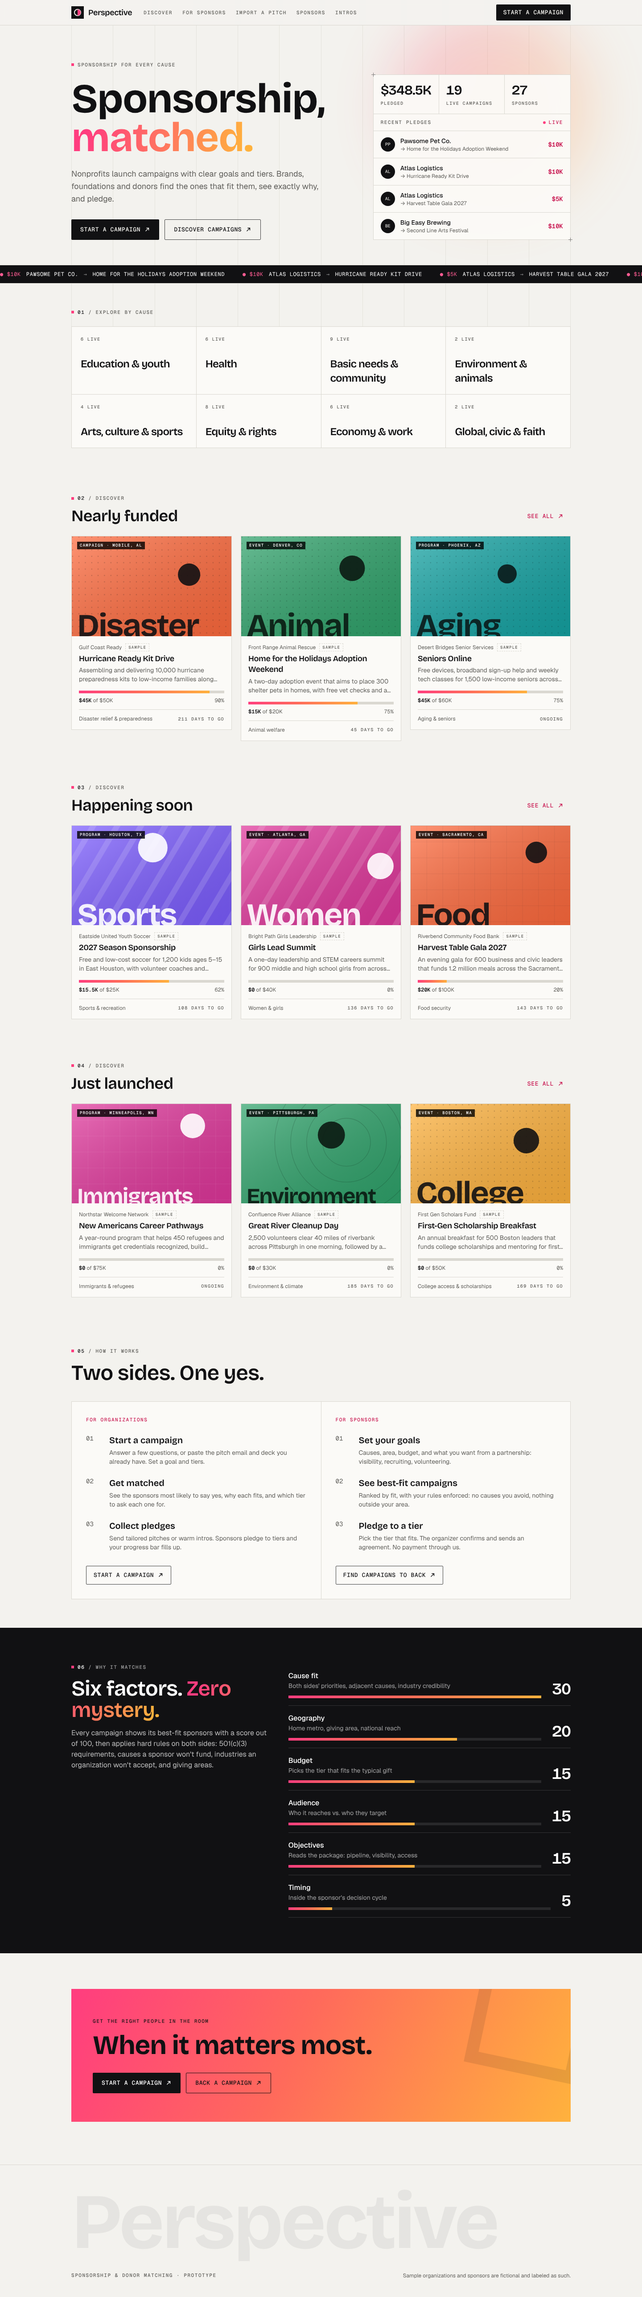
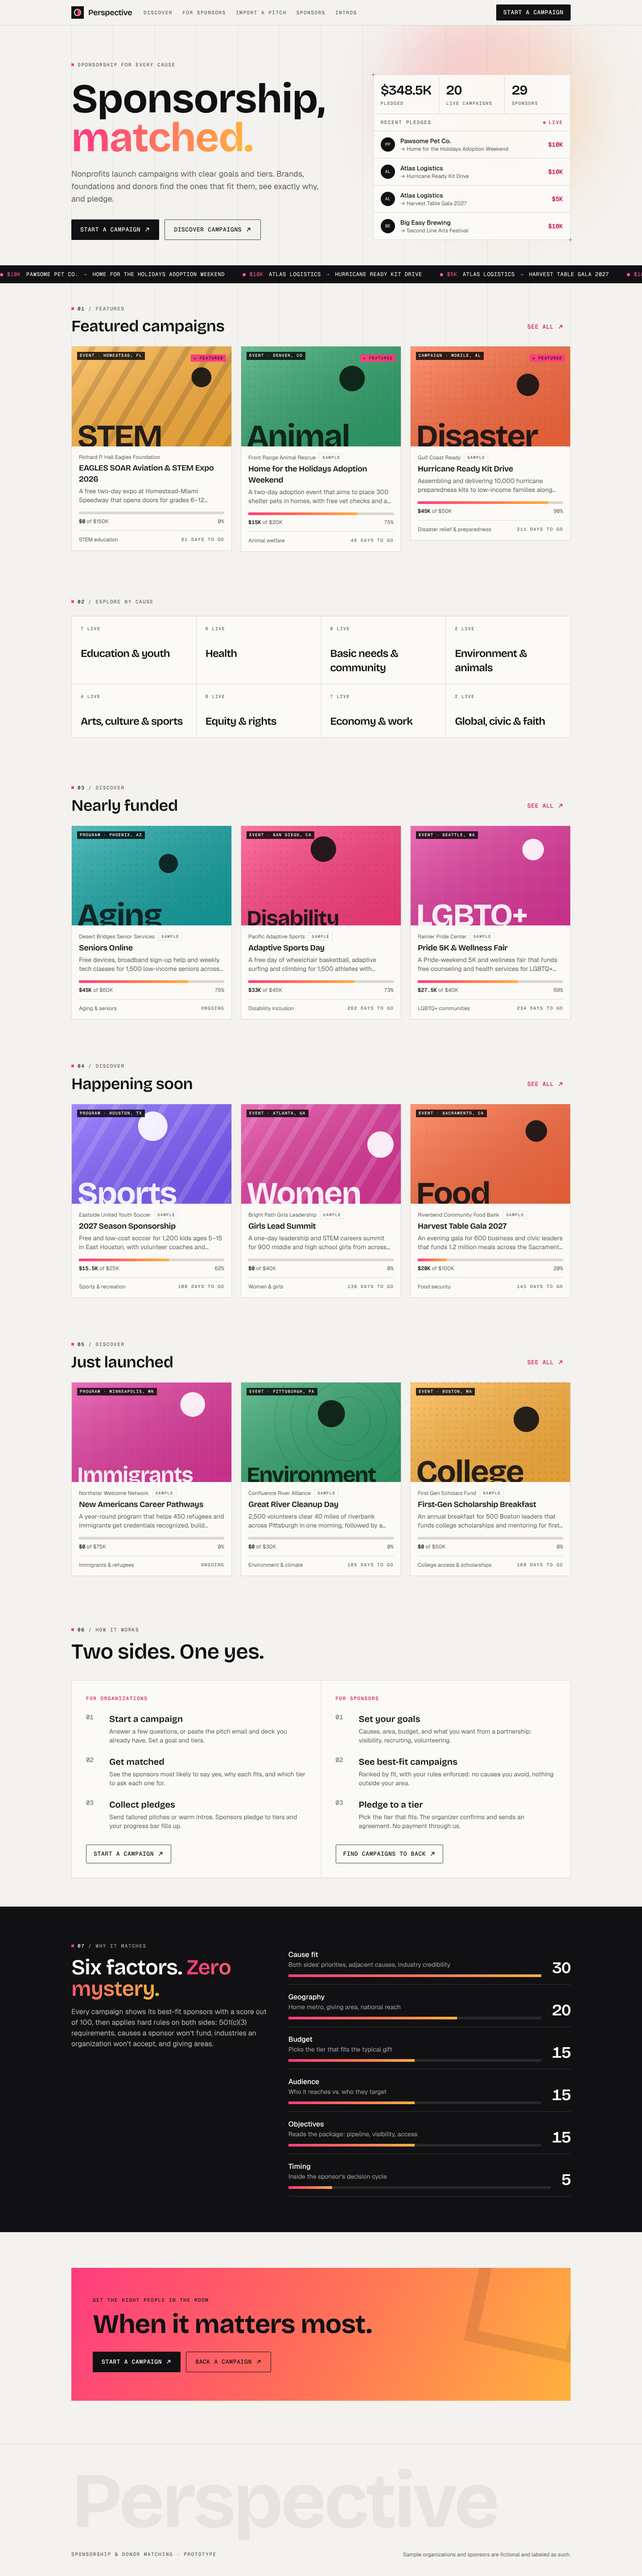
Feature EAGLES SOAR as a real campaign
Add the Richard P. Hall Eagles Foundation's EAGLES SOAR Aviation & STEM
Expo 2026 from its outreach email and sponsorship package: real details,
five tiers with benefits, partners, story, and no Sample label. No
pledges are recorded since none were provided.

- Opportunity.featured: a "Featured campaigns" row leads the home page,
  cards and campaign pages show a Featured badge, and Discover's default
  sort pins featured campaigns in their curated order
- Two fictional Florida sample sponsors (aerospace employer, Miami
  credit union) so the campaign has realistic local matches
- Test pins EAGLES SOAR as featured, non-sample, with the local
  aerospace employer as its top match

Claude-Session: https://claude.ai/code/session_01YM4cKZGqWXUZcWp3snBqqv

diff --git a/data/seed.ts b/data/seed.ts
@@ -1,16 +1,93 @@
 import type { Opportunity, Pledge, SponsorProfile } from "../lib/types.ts";
 
-// Fictional demo network spanning causes, regions, budgets and sponsor
-// industries. Every record is labeled "Sample" in the UI.
+// Demo network spanning causes, regions, budgets and sponsor industries.
+// EAGLES SOAR is a real campaign; every other record is fictional and
+// labeled "Sample" in the UI.
 const created = "2026-10-21T00:00:00.000Z";
 const base = { source: "seed" as const, sample: true, createdAt: created };
 
-type OppSeed = Omit<Opportunity, "source" | "sample" | "createdAt" | "excludedIndustries" | "partners" | "contact"> &
+type OppSeed = Omit<Opportunity, "source" | "createdAt" | "excludedIndustries" | "partners" | "contact"> &
   Partial<Pick<Opportunity, "excludedIndustries" | "partners" | "contact">>;
 
 const opp = (o: OppSeed): Opportunity => ({ excludedIndustries: [], partners: [], contact: {}, ...base, ...o });
 
 const launched: Opportunity[] = [
+  // A real campaign, from the founder's outreach email and sponsorship package.
+  opp({
+    id: "eagles-soar-2026",
+    orgName: "Richard P. Hall Eagles Foundation",
+    orgType: "501c3",
+    title: "EAGLES SOAR Aviation & STEM Expo 2026",
+    kind: "event",
+    summary:
+      "A free two-day expo at Homestead-Miami Speedway that opens doors for grades 6–12 students into aviation and STEM careers, honoring the Tuskegee Airmen legacy of Capt. Richard P. Hall.",
+    story: [
+      "The Richard P. Hall Eagles Foundation is a Florida 501(c)(3) founded by LaTéssa Dotson Hall, a retired USAF Major. It honors the legacy of Capt. Richard P. Hall, which traces back to the Tuskegee Airmen, and its mission is to open doors for kids into aviation and STEM.",
+      "EAGLES SOAR runs December 11–12, 2026, 9 AM–2 PM, at Homestead-Miami Speedway. It's powered by the City of Homestead, aligned with Miami-Dade County Public Schools, and free to attend. Friday is Student Exploration Day for grades 6–12 from public, charter, private and homeschool programs. Saturday is Community Career Exploration Day for students, families and young adults.",
+      "Students get hands-on time with careers in aviation and aerospace, engineering and robotics, defense and space, healthcare, and mobility. This year adds an AI track with a student hackathon.",
+      "Beyond sponsorship, the foundation welcomes volunteers and mentors (including for the AI hackathon) and introductions to companies and people who might want to partner.",
+    ].join("\n\n"),
+    causes: ["stem-education", "workforce-development", "technology-ai", "youth-development"],
+    audiences: ["teen-students", "families", "young-adults", "educators"],
+    location: { city: "Homestead", state: "FL", metro: "Miami" },
+    startDate: "2026-12-11",
+    endDate: "2026-12-12",
+    expectedReach: 5000,
+    reachNote: "5,000+ attendees including 3,000+ students and 2,000+ engaged families",
+    tiers: [
+      {
+        name: "Presenting — Visionary Level",
+        amount: 40000,
+        availability: "exclusive",
+        benefits: [
+          "Premium activation space (large footprint, prime location)",
+          "Main stage remarks",
+          "Premier branding placement",
+          "Logo on Official Track Car",
+          "“Ignite” session hosting",
+          "M-DCPS leadership & Industry Advisory Council access",
+          "Student Talent Database access",
+          "VIP Lounge + 20 VIP passes",
+        ],
+      },
+      {
+        name: "Platinum — Innovation Level",
+        amount: 25000,
+        availability: "limited",
+        benefits: [
+          "Prominent branding placement",
+          "Large activation space (premium area)",
+          "Main stage recognition",
+          "Media recognition",
+          "Student Talent Database access",
+          "12 VIP passes",
+        ],
+      },
+      {
+        name: "Gold — Pathway Level",
+        amount: 15000,
+        availability: "multiple",
+        benefits: ["Activation space near Platinum sponsors", "Media recognition", "Website & T-shirt logo", "8 VIP passes"],
+      },
+      {
+        name: "Silver — Impact Partner",
+        amount: 10000,
+        availability: "multiple",
+        benefits: ["Table activation space", "Website recognition", "T-shirt logo", "6 VIP passes"],
+      },
+      {
+        name: "Bronze — Community Partner",
+        amount: 5000,
+        availability: "multiple",
+        benefits: ["Table activation space", "Website recognition", "6 VIP passes"],
+      },
+    ],
+    asks: ["cash", "volunteers", "mentors", "introductions"],
+    partners: ["City of Homestead", "Miami-Dade County Public Schools", "Amazon", "FPL"],
+    contact: { name: "LaTéssa Dotson Hall, Founder & Executive Director", website: "https://www.eaglessoar.co" },
+    sample: false,
+    featured: true,
+  }),
   opp({
     id: "harvest-table-gala",
     goal: 100000,
@@ -35,6 +112,7 @@ const launched: Opportunity[] = [
   }),
   opp({
     id: "holiday-adoption-weekend",
+    featured: true,
     goal: 20000,
     orgName: "Front Range Animal Rescue",
     orgType: "501c3",
@@ -281,6 +359,7 @@ const launched: Opportunity[] = [
   }),
   opp({
     id: "gulf-coast-ready",
+    featured: true,
     goal: 50000,
     orgName: "Gulf Coast Ready",
     orgType: "501c3",
@@ -422,6 +501,22 @@ const sponsor = (s: SponsorSeed): SponsorProfile => ({
 const national = { scope: "national" as const, states: [], metros: [] };
 
 export const seedSponsors: SponsorProfile[] = [
+  sponsor({
+    id: "aeronova", name: "Aeronova Systems", type: "brand", industry: "aerospace-defense",
+    about: "Aerospace manufacturer with a growing South Florida maintenance facility, struggling to hire A&P mechanics and engineers.",
+    causes: ["stem-education", "workforce-development", "technology-ai"], audiences: ["teen-students", "young-adults"],
+    objectives: ["talent-pipeline", "brand-visibility", "community-impact"],
+    geography: { scope: "national", states: ["FL", "TX", "WA"], metros: ["Miami"] },
+    budget: { min: 10000, max: 50000 }, supportTypes: ["cash", "mentors", "in-kind"], leadTimeDays: 45, approach: "intro-preferred",
+  }),
+  sponsor({
+    id: "coral-coast-cu", name: "Coral Coast Credit Union", type: "small-business", industry: "financial",
+    about: "Member-owned credit union serving Miami-Dade and Broward with a youth financial-literacy mandate.",
+    causes: ["financial-literacy", "youth-development", "community-development"], audiences: ["teen-students", "families", "underserved"],
+    objectives: ["local-presence", "community-impact", "customer-reach"],
+    geography: { scope: "local", states: ["FL"], metros: ["Miami", "Fort Lauderdale"] },
+    budget: { min: 2500, max: 10000 }, supportTypes: ["cash", "volunteers"], leadTimeDays: 30, requires501c3: false,
+  }),
   sponsor({
     id: "pawsome-pet-co", name: "Pawsome Pet Co.", type: "brand", industry: "pets",
     about: "National pet food and supplies brand with a shelter-adoption giving program.",

diff --git a/app/page.tsx b/app/page.tsx
@@ -43,13 +43,13 @@ function initials(name: string): string {
   return name.split(/\s+/).map((w) => w[0]).join("").slice(0, 2).toUpperCase();
 }
 
-function CardRow({ index, title, href, rows }: { index: string; title: string; href: string; rows: Row[] }) {
+function CardRow({ index, eyebrow = "Discover", title, href, rows }: { index: string; eyebrow?: string; title: string; href: string; rows: Row[] }) {
   if (!rows.length) return null;
   return (
     <section className="py-12">
       <Reveal className="mb-6 flex items-end justify-between gap-4">
         <div>
-          <Eyebrow index={index}>Discover</Eyebrow>
+          <Eyebrow index={index}>{eyebrow}</Eyebrow>
           <h2 className="display mt-3 text-3xl font-semibold sm:text-4xl">{title}</h2>
         </div>
         <Link href={href} className="btn-ghost group shrink-0">
@@ -74,9 +74,14 @@ export default async function Home() {
   const recent = [...pledges].sort((a, b) => b.createdAt.localeCompare(a.createdAt));
   const titleOf = (id: string) => opps.find((o) => o.id === id)?.title ?? "";
 
-  // Three rows that don't repeat a campaign.
-  const nearly = rows.filter((r) => r.f.percent >= 50 && r.f.percent < 100).sort((a, b) => b.f.percent - a.f.percent).slice(0, 3);
-  const taken = new Set(nearly.map((r) => r.opp.id));
+  // Rows that don't repeat a campaign: featured first, then the rest.
+  const featured = rows.filter((r) => r.opp.featured).slice(0, 3);
+  const taken = new Set(featured.map((r) => r.opp.id));
+  const nearly = rows
+    .filter((r) => !taken.has(r.opp.id) && r.f.percent >= 50 && r.f.percent < 100)
+    .sort((a, b) => b.f.percent - a.f.percent)
+    .slice(0, 3);
+  nearly.forEach((r) => taken.add(r.opp.id));
   const soon = rows
     .filter((r) => r.f.daysLeft !== undefined && !taken.has(r.opp.id))
     .sort((a, b) => a.f.daysLeft! - b.f.daysLeft!)
@@ -167,10 +172,12 @@ export default async function Home() {
         </div>
       </FullBleed>
 
+      <CardRow index="01" eyebrow="Featured" title="Featured campaigns" href="/opportunities?sort=featured" rows={featured} />
+
       {/* Categories */}
       <section className="py-14">
         <Reveal>
-          <Eyebrow index="01">Explore by cause</Eyebrow>
+          <Eyebrow index="02">Explore by cause</Eyebrow>
         </Reveal>
         <div className="mt-6 grid grid-cols-2 border-l border-t border-line sm:grid-cols-4">
           {CAUSE_GROUPS.map((g, i) => {
@@ -195,14 +202,14 @@ export default async function Home() {
         </div>
       </section>
 
-      <CardRow index="02" title="Nearly funded" href="/opportunities?sort=nearly" rows={nearly} />
-      <CardRow index="03" title="Happening soon" href="/opportunities?sort=soon" rows={soon} />
-      <CardRow index="04" title="Just launched" href="/opportunities?sort=newest" rows={fresh} />
+      <CardRow index="03" title="Nearly funded" href="/opportunities?sort=nearly" rows={nearly} />
+      <CardRow index="04" title="Happening soon" href="/opportunities?sort=soon" rows={soon} />
+      <CardRow index="05" title="Just launched" href="/opportunities?sort=newest" rows={fresh} />
 
       {/* How it works */}
       <section className="py-16">
         <Reveal>
-          <Eyebrow index="05">How it works</Eyebrow>
+          <Eyebrow index="06">How it works</Eyebrow>
           <h2 className="display mt-4 max-w-3xl text-4xl font-semibold sm:text-5xl">Two sides. One yes.</h2>
         </Reveal>
         <div className="mt-10 grid gap-px border border-line bg-line lg:grid-cols-2">
@@ -234,7 +241,7 @@ export default async function Home() {
           <Reveal className="lg:col-span-5">
             <p className="eyebrow flex items-center gap-2 text-white/60">
               <span className="h-1.5 w-1.5 bg-accent" />
-              <span className="text-white">06</span> / Why it matches
+              <span className="text-white">07</span> / Why it matches
             </p>
             <h2 className="display mt-4 text-4xl font-semibold sm:text-5xl">
               Six factors. <span className="text-warm">Zero mystery.</span>

diff --git a/app/opportunities/page.tsx b/app/opportunities/page.tsx
@@ -16,7 +16,14 @@ type Row = { opp: Opportunity; f: Funding };
 
 // Kickstarter-style sorts, adapted: "nearly funded" and "happening soon" are
 // where a sponsor's yes makes the most difference.
+const bySoonest = (a: Row, b: Row) => (a.f.daysLeft ?? 9999) - (b.f.daysLeft ?? 9999);
+
 const SORTS: Record<string, { label: string; fn: (a: Row, b: Row) => number }> = {
+  // Featured campaigns keep their curated order (the sort is stable); the rest follow by date.
+  featured: {
+    label: "Featured",
+    fn: (a, b) => Number(!!b.opp.featured) - Number(!!a.opp.featured) || (a.opp.featured ? 0 : bySoonest(a, b)),
+  },
   soon: { label: "Happening soon", fn: (a, b) => (a.f.daysLeft ?? 9999) - (b.f.daysLeft ?? 9999) },
   nearly: { label: "Nearly funded", fn: (a, b) => (b.f.percent < 100 ? b.f.percent : -1) - (a.f.percent < 100 ? a.f.percent : -1) },
   newest: { label: "Just launched", fn: (a, b) => b.opp.createdAt.localeCompare(a.opp.createdAt) },
@@ -29,7 +36,7 @@ type Search = { q?: string; cause?: string; group?: string; state?: string; kind
 export default async function DiscoverPage({ searchParams }: { searchParams: Promise<Search> }) {
   const params = await searchParams;
   const { q, cause, group, state, kind } = params;
-  const sort = params.sort && SORTS[params.sort] ? params.sort : "soon";
+  const sort = params.sort && SORTS[params.sort] ? params.sort : "featured";
   const [all, pledges] = await Promise.all([listOpportunities(), listPledges()]);
   const groupIds = CAUSE_GROUPS.find((g) => g.label === group)?.ids;
   const needle = q?.trim().toLowerCase();

diff --git a/lib/match.test.ts b/lib/match.test.ts
@@ -133,6 +133,15 @@ describe("sample network", () => {
     assert.equal(top("southside-code-camp"), "copperline-software");
   });
 
+  it("features EAGLES SOAR as a real campaign with a local aerospace employer on top", () => {
+    const eagles = seedOpportunities.find((o) => o.id === "eagles-soar-2026")!;
+    assert.equal(eagles.featured, true);
+    assert.equal(eagles.sample, false);
+    const ranked = rankSponsors(eagles, seedSponsors, NOW);
+    assert.equal(ranked[0].item.id, "aeronova");
+    assert.equal(ranked[0].match.suggestedTier?.amount, 40000);
+  });
+
   it("enforces both sides' exclusions", () => {
     const soccer = seedOpportunities.find((o) => o.id === "eastside-youth-soccer")!;
     const blocked = rankSponsors(soccer, seedSponsors, NOW).filter((r) => r.match.grade === "Not eligible").map((r) => r.item.id);

diff --git a/app/opportunities/[id]/page.tsx b/app/opportunities/[id]/page.tsx
@@ -69,9 +69,10 @@ export default async function CampaignPage({ params }: { params: Promise<{ id: s
             <ShareButton />
           </div>
           <div className="mt-6 space-y-2 border-t border-line pt-5 text-sm">
-            <div className="flex items-center gap-2">
+            <div className="flex flex-wrap items-center gap-2">
               <span className="font-medium">{opp.orgName}</span>
               {opp.sample && <SampleTag />}
+              {opp.featured && <span className="eyebrow bg-accent px-1.5 py-0.5 text-[9px] text-[#111113]">★ Featured</span>}
             </div>
             <p className="text-muted">
               {opp.orgType === "other" ? "Not a 501(c)(3)" : label(ORG_TYPES, opp.orgType)}

diff --git a/components/CampaignCard.tsx b/components/CampaignCard.tsx
@@ -23,7 +23,11 @@ export function CampaignCard({ opp, f, badge }: { opp: Opportunity; f: Funding; 
           label={`${KIND[opp.kind]} · ${placeLabel(opp)}`}
           className="aspect-[16/10] transition-transform duration-500 group-hover:scale-[1.03]"
         />
-        {badge && <div className="absolute right-3 top-3">{badge}</div>}
+        {(badge || opp.featured) && (
+          <div className="absolute right-3 top-3">
+            {badge ?? <span className="eyebrow bg-accent px-1.5 py-0.5 text-[9px] text-[#111113]">★ Featured</span>}
+          </div>
+        )}
       </div>
       <div className="p-4">
         <div className="flex items-center gap-2 text-xs text-muted">

diff --git a/lib/types.ts b/lib/types.ts
@@ -48,6 +48,7 @@ export type Opportunity = {
   contact: { name?: string; email?: string; phone?: string; website?: string };
   source: "seed" | "import" | "intake";
   sample?: boolean;
+  featured?: boolean; // pinned to the top of the home page and Discover
   createdAt: string;
 };
 

diff --git a/README.md b/README.md
@@ -29,7 +29,9 @@ The difference is that every campaign also shows which sponsors fit it and why.
 
 **Pledges follow the matching rules.** A sponsor in the network can't pledge to a campaign it's blocked from (a cause it excludes, or an industry the organization declines). Tiers also stop accepting pledges once their slots fill.
 
-The demo network has 19 fictional organizations and 27 fictional sponsors, all labeled "Sample" in the UI:
+The featured campaign **EAGLES SOAR Aviation & STEM Expo 2026** is real. It's built from the Richard P. Hall Eagles Foundation's outreach email and sponsorship package, with no pledges recorded yet.
+
+Everything else in the demo network is fictional and labeled "Sample" in the UI: 19 organizations and 29 sponsors.
 - **Organizations:** food banks, animal rescues, youth sports, arts festivals, rural health, refugee services, recovery, disaster preparedness, adaptive sports and more, across 17 states plus one national virtual campaign.
 - **Sponsors:** national brands, local businesses, foundations, individual donors and a public agency, across 20+ industries.
 
